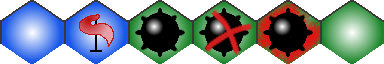
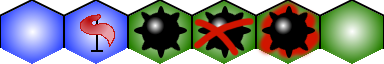
Remake hex cells

diff --git a/Mines/hex_board.cpp b/Mines/hex_board.cpp
@@ -24,8 +24,7 @@ void HexBoard::setupScene(BoardScene *scene)
     const auto half_sprite_size = sprite_size / 2.;
     using namespace std::numbers;
     QPainterPath path;
-    path.moveTo(0., -half_sprite_size); // Top
-    auto t = -half_sprite_size + (half_sprite_size / sqrt3);
+    path.moveTo(0., -half_sprite_size);                                             // Top
     path.lineTo(half_sprite_size, -half_sprite_size + (half_sprite_size / sqrt3));  // Top right
     path.lineTo(half_sprite_size, half_sprite_size - (half_sprite_size / sqrt3));   // Bottom right
     path.lineTo(0, half_sprite_size);                                               // Bottom
@@ -36,24 +35,20 @@ void HexBoard::setupScene(BoardScene *scene)
     const size_t cols = width_;
     for (size_t i = 0; i < height_; ++i) {
         for (size_t j = 0; j < width_; ++j) {
-            const auto  &cell = cells_[i * width_ + j];
-            auto        *item = new SpriteCellItem { cell.get() };
-            const size_t row  = cell->id / cols;
-            const size_t col  = cell->id % cols;
-            // qreal       x = (size_t(row) % 2 == 0 ? col * sprite_size : col * sprite_size + sprite_size * 0.5);
-            // qreal       y = row * (2 * sprite_size / 3);
-            const qreal x = (row % 2 == 0 ? static_cast<qreal>(col) * sprite_size
-                                          : static_cast<qreal>(col) * sprite_size + half_sprite_size);
-            const qreal y = static_cast<qreal>(row) * (2. * sprite_size / 3.);
+            const auto &cell = cells_[i * width_ + j];
+            auto       *item = new SpriteCellItem { cell.get() };
+            const qreal x    = (i % 2 == 0 ? static_cast<qreal>(j) * sprite_size
+                                           : static_cast<qreal>(j) * sprite_size + half_sprite_size);
+            const qreal y    = static_cast<qreal>(i) * (sprite_size - (half_sprite_size / sqrt3));
             item->setPos(x, y);
             scene->registerCellItem(item);
         }
     }
 
     scene->setSceneRect(-half_sprite_size,
-                        -(3. * half_sprite_size) / sqrt3 - half_sprite_size,
-                        width_ * sprite_size + sprite_size / 2,
-                        height_ * sprite_size);
+                        -half_sprite_size,
+                        width_ * sprite_size + half_sprite_size,
+                        height_ * (sprite_size - (half_sprite_size / sqrt3)) + half_sprite_size / sqrt3);
 }
 
 void HexBoard::generate()
@@ -92,10 +87,12 @@ std::vector<size_t> HexBoard::neighborIds(size_t id) const
     size_t              neighbors_counter = 0;
     size_t              col               = id % width_;
     size_t              row               = id / width_;
-    if (col > 0)
+    if (col > 0) {
         ids[neighbors_counter++] = id - 1;
-    if (col < width_ - 1)
+    }
+    if (col < width_ - 1) {
         ids[neighbors_counter++] = id + 1;
+    }
     if (row % 2 == 0) { // Even row
         if (row > 0 && col > 0) {
             ids[neighbors_counter++] = id - width_ - 1;

diff --git a/Mines/gui/sprite_cell_item.cpp b/Mines/gui/sprite_cell_item.cpp
@@ -61,9 +61,6 @@ void SpriteCellItem::paint(QPainter *painter, const QStyleOptionGraphicsItem *op
         painter->setOpacity(hovered_opacity_);
         painter->drawPath(shape());
     }
-
-    painter->setPen(Qt::red);
-    painter->drawRect(boundingRect());
 }
 
 QRectF SpriteCellItem::spriteRect(CellState type) const
